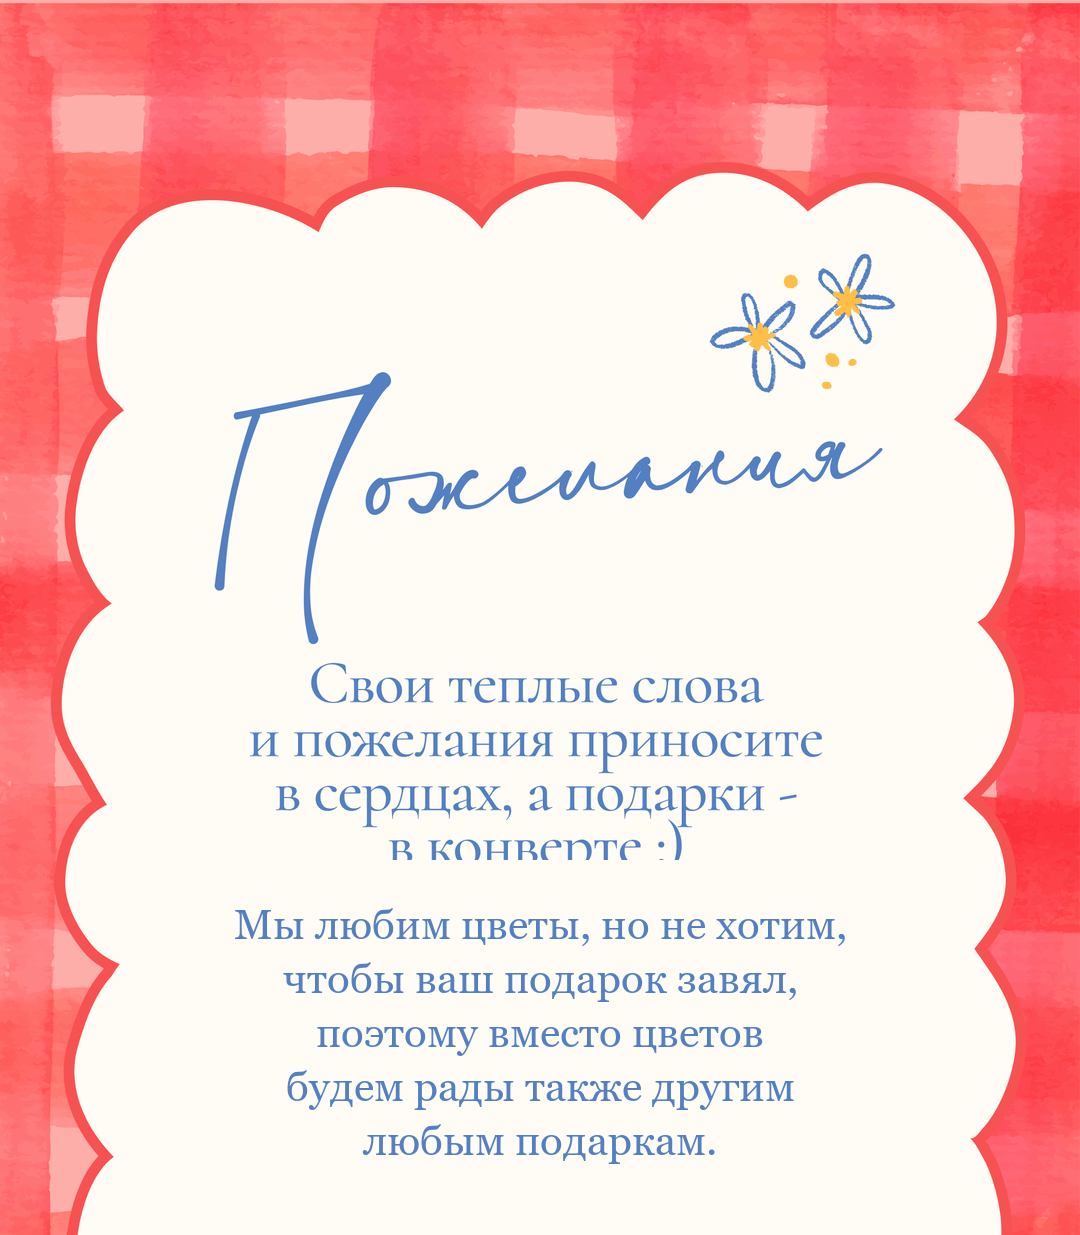
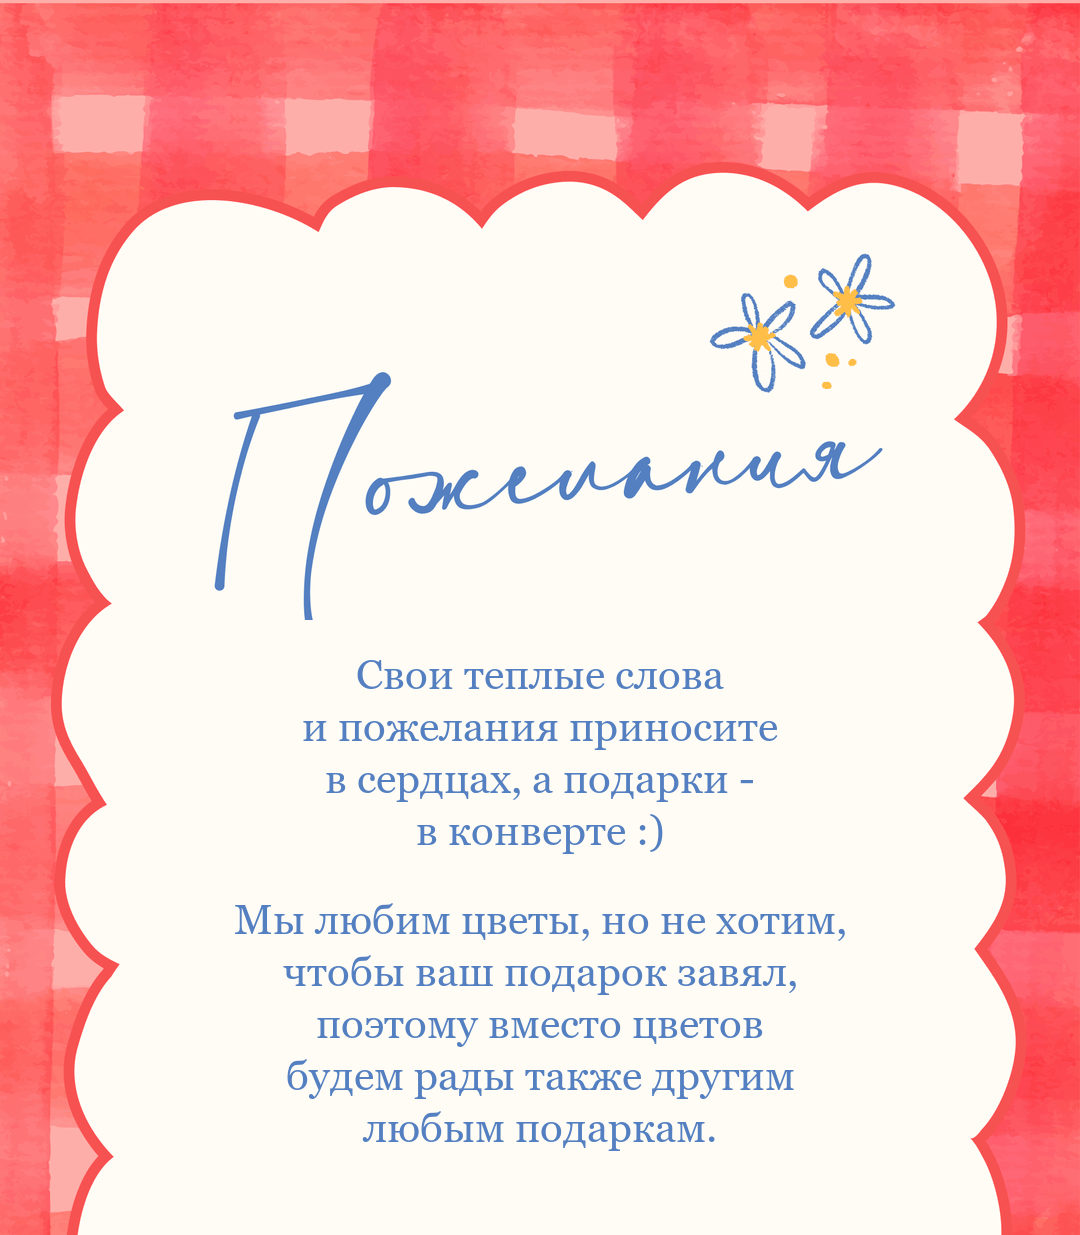
Add files via upload

Changed region(s): [[0.2139, 0.7385, 0.7944, 0.9538], [0.2139, 0.5231, 0.7639, 0.7077], [0.275, 0.4923, 0.3056, 0.5231]]

diff --git a/index.html b/index.html
@@ -19,7 +19,7 @@
 
 <source src="https://nadiamarina.ru/audio/sara.mp3" type="audio/mpeg">
 
-</audio><style type="text/css"> [name="audiostop01"] { position: absolute; width: 100%; } [name="audio01"] { opacity: 1; transition: opacity 0.6s cubic-bezier(.77,-0.01,.36,1); cursor: pointer; } [name="audio01"].playing { opacity: 0; } </style></div></div></div><div class="block-item block-banner has-pb-0 has-pt-0 b-80729590"><div><div class="has-marginless" section="[object Object]" block_id="80729590" account="[object Object]" theme="[object Object]" index="7" page_filename="european" device-class="lg"><div><div class="block-banner-inner"><div class="picture-container lazy is-loaded" style="padding-top: 162.963%; background: url(&quot;./loveee.ru_files/68774372-date-updated.png&quot;) 0px 0px / 100% no-repeat;"></div></div></div></div></div></div><div class="block-item block-banner has-pb-0 has-pt-0 b-80729592"><div><div class="has-marginless" section="[object Object]" block_id="80729592" account="[object Object]" theme="[object Object]" index="8" page_filename="european" device-class="lg"><div><div class="block-banner-inner"><div class="picture-container lazy is-loaded" style="padding-top: 124.792%; background: url(&quot;./loveee.ru_files/68774373-location-clean.png&quot;) 0px 0px / 100% no-repeat;"></div></div></div></div></div></div><div class="block-item block-banner has-pb-0 has-pt-0 b-80729585"><div><div class="has-marginless" section="[object Object]" block_id="80729585" account="[object Object]" theme="[object Object]" index="9" page_filename="european" device-class="lg"><div><div class="block-banner-inner"><div class="picture-container lazy is-loaded" style="padding-top: 20.8333%; background: url(&quot;./loveee.ru_files/68774374-map-blue.png&quot;) 0px 0px / 100% no-repeat;"></div></div></div></div></div></div><div class="block-item block-break b-be9807341447"><div><div class="block-break" section="[object Object]" block_id="be9807341447" block="[object Object]" account="[object Object]" theme="[object Object]" index="10" page_id="17481197" page_filename="european" device-class="lg" mode="view"><div class="block-break-inner has-icon is-invisible" style="height: 75px; margin: -7px 0px;"><span></span></div></div></div></div><div class="block-item block-banner has-pb-0 has-pt-0 b-80729584"><div><div class="has-marginless" section="[object Object]" block_id="80729584" account="[object Object]" theme="[object Object]" index="11" page_filename="european" device-class="lg"><div><div class="block-banner-inner"><div class="picture-container lazy is-loaded" style="padding-top: 168.148%; background: url(&quot;./loveee.ru_files/68774375-program-updated-v3.png&quot;) 0px 0px / 100% no-repeat;"></div></div></div></div></div></div><div class="block-item block-banner has-pb-0 has-pt-0 b-80729595"><div><div class="has-marginless" section="[object Object]" block_id="80729595" account="[object Object]" theme="[object Object]" index="12" page_filename="european" device-class="lg"><div><div class="block-banner-inner"><div data-src="./loveee.ru_files/68774348.png" class="picture-container lazy" style="padding-top: 88.5417%; background: 0px 0px / 100% no-repeat;"></div></div></div></div></div></div><div class="block-item block-banner has-pb-0 has-pt-0 b-80729599"><div><div class="has-marginless" section="[object Object]" block_id="80729599" account="[object Object]" theme="[object Object]" index="13" page_filename="european" device-class="lg"><div><div class="block-banner-inner"><div data-src="./loveee.ru_files/68774379-colors-updated.png" class="picture-container lazy" style="padding-top: 82.5%; background: 0px 0px / 100% no-repeat;"></div></div></div></div></div></div><div class="block-item block-banner has-pb-0 has-pt-0 b-80729601"><div><div class="has-marginless" section="[object Object]" block_id="80729601" account="[object Object]" theme="[object Object]" index="14" page_filename="european" device-class="lg"><div><div class="block-banner-inner"><div data-src="./loveee.ru_files/68774380-wishes-updated.png" class="picture-container lazy" style="padding-top: 114.352%; background: 0px 0px / 100% no-repeat;"></div></div></div></div></div></div><div class="block-item block-banner has-pb-0 has-pt-0 b-80729600"><div><div class="has-marginless" section="[object Object]" block_id="80729600" account="[object Object]" theme="[object Object]" index="15" page_filename="european" device-class="lg"><div><a rel="noopener" target="_blank" href="https://ohmywishes.com/"><div class="block-banner-inner"><div data-src="./loveee.ru_files/68774382.png" class="picture-container lazy" style="padding-top: 46.0185%; background: 0px 0px / 100% no-repeat;"></div></div></a></div></div></div></div><div class="block-item block-banner has-pb-0 has-pt-0 b-80729598"><div><div class="has-marginless" section="[object Object]" block_id="80729598" account="[object Object]" theme="[object Object]" index="16" page_filename="european" device-class="lg"><div><div class="block-banner-inner"><div data-src="./loveee.ru_files/68774385.png" class="picture-container lazy" style="padding-top: 88.75%; background: 0px 0px / 100% no-repeat;"></div></div></div></div></div></div><div class="block-item block-banner has-pb-0 has-pt-0 b-80729607"><div><div class="has-marginless" section="[object Object]" block_id="80729607" account="[object Object]" theme="[object Object]" index="17" page_filename="european" device-class="lg"><div><div class="block-banner-inner"><div data-src="./loveee.ru_files/68774392.png" class="picture-container lazy" style="padding-top: 20.463%; background: 0px 0px / 100% no-repeat;"></div></div></div></div></div></div><div class="block-item block-banner has-pb-0 has-pt-0 b-80729610"><div><div class="has-marginless" section="[object Object]" block_id="80729610" account="[object Object]" theme="[object Object]" index="18" page_filename="european" device-class="lg"><div><div class="block-banner-inner"><div data-src="./loveee.ru_files/68774394.png" class="picture-container lazy" style="padding-top: 123.958%; background: 0px 0px / 100% no-repeat;"></div></div></div></div></div></div><div class="block-item block-banner has-pb-0 has-pt-0 b-80729609"><div><div class="has-marginless" section="[object Object]" block_id="80729609" account="[object Object]" theme="[object Object]" index="19" page_filename="european" device-class="lg"><div><a rel="noopener" target="_blank" href="https://docs.google.com/forms/d/e/1FAIpQLScgUnUuUz_svglAJQ2AdZtG2Cd-jG3wC-IbTQ3QposS3vGNvw/viewform?usp=header"><div class="block-banner-inner"><div data-src="./loveee.ru_files/68774398.png" class="picture-container lazy" style="padding-top: 40.2083%; background: 0px 0px / 100% no-repeat;"></div></div></a></div></div></div></div><div class="block-item block-banner has-pb-0 has-pt-0 b-80729608"><div><div class="has-marginless" section="[object Object]" block_id="80729608" account="[object Object]" theme="[object Object]" index="20" page_filename="european" device-class="lg"><div><div class="block-banner-inner"><div data-src="./loveee.ru_files/68774405.png" class="picture-container lazy" style="padding-top: 93.75%; background: 0px 0px / 100% no-repeat;"></div></div></div></div></div></div><div class="block-item block-banner has-pb-0 has-pt-0 b-80729612"><div><div class="has-marginless" section="[object Object]" block_id="80729612" account="[object Object]" theme="[object Object]" index="21" page_filename="european" device-class="lg"><div><a rel="noopener" target="_top" href="https://t.me/nadia_likes_design"><div class="block-banner-inner"><div data-src="./loveee.ru_files/68774407.png" class="picture-container lazy" style="padding-top: 18.125%; background: 0px 0px / 100% no-repeat;"></div></div></a></div></div></div></div><div class="block-item block-banner has-pb-0 has-pt-0 b-80729613"><div><div class="has-marginless" section="[object Object]" block_id="80729613" account="[object Object]" theme="[object Object]" index="22" page_filename="european" device-class="lg"><div><div class="block-banner-inner"><div data-src="./loveee.ru_files/68774408.png" class="picture-container lazy" style="padding-top: 52.1296%; background: 0px 0px / 100% no-repeat;"></div></div></div></div></div></div><div class="block-item block-banner has-pb-0 has-pt-0 b-80729617"><div><div class="has-marginless" section="[object Object]" block_id="80729617" account="[object Object]" theme="[object Object]" index="23" page_filename="european" device-class="lg"><div><div class="block-banner-inner"><div data-src="./loveee.ru_files/68774410-final-updated.png" class="picture-container lazy" style="padding-top: 131.458%; background: 0px 0px / 100% no-repeat;"></div></div></div></div></div></div><div class="block-item block-break b-bf9f376d94ae"><div><div class="block-break" section="[object Object]" block_id="bf9f376d94ae" block="[object Object]" account="[object Object]" theme="[object Object]" index="24" page_id="17481197" page_filename="european" device-class="lg" mode="view"><div class="block-break-inner has-icon is-invisible" style="height: 90px; margin: -7px 0px;"><span></span></div></div></div></div> <!----></div></div> <!----></div></div></div></div></div></div> <!----></main></div></div> <!----></div> <div><!----></div>  <!----></div></div></div></div> </div>  <div style="position:absolute;top:-1000px;z-index: -1"><div id="autoResizeTextareaCopy" style="position:fixed;white-space:pre-wrap;box-sizing: border-box; -moz-box-sizing: border-box;  -ms-box-sizing: border-box; -webkit-box-sizing: border-box; visibility: hidden;"></div></div><img class="stat" src="./loveee.ru_files/44929738" cipq16rcl=""><script>
+</audio><style type="text/css"> [name="audiostop01"] { position: absolute; width: 100%; } [name="audio01"] { opacity: 1; transition: opacity 0.6s cubic-bezier(.77,-0.01,.36,1); cursor: pointer; } [name="audio01"].playing { opacity: 0; } </style></div></div></div><div class="block-item block-banner has-pb-0 has-pt-0 b-80729590"><div><div class="has-marginless" section="[object Object]" block_id="80729590" account="[object Object]" theme="[object Object]" index="7" page_filename="european" device-class="lg"><div><div class="block-banner-inner"><div class="picture-container lazy is-loaded" style="padding-top: 162.963%; background: url(&quot;./loveee.ru_files/68774372-date-updated.png&quot;) 0px 0px / 100% no-repeat;"></div></div></div></div></div></div><div class="block-item block-banner has-pb-0 has-pt-0 b-80729592"><div><div class="has-marginless" section="[object Object]" block_id="80729592" account="[object Object]" theme="[object Object]" index="8" page_filename="european" device-class="lg"><div><div class="block-banner-inner"><div class="picture-container lazy is-loaded" style="padding-top: 124.792%; background: url(&quot;./loveee.ru_files/68774373-location-clean.png&quot;) 0px 0px / 100% no-repeat;"></div></div></div></div></div></div><div class="block-item block-banner has-pb-0 has-pt-0 b-80729585"><div><div class="has-marginless" section="[object Object]" block_id="80729585" account="[object Object]" theme="[object Object]" index="9" page_filename="european" device-class="lg"><div><div class="block-banner-inner"><div class="picture-container lazy is-loaded" style="padding-top: 20.8333%; background: url(&quot;./loveee.ru_files/68774374-map-blue.png&quot;) 0px 0px / 100% no-repeat;"></div></div></div></div></div></div><div class="block-item block-break b-be9807341447"><div><div class="block-break" section="[object Object]" block_id="be9807341447" block="[object Object]" account="[object Object]" theme="[object Object]" index="10" page_id="17481197" page_filename="european" device-class="lg" mode="view"><div class="block-break-inner has-icon is-invisible" style="height: 75px; margin: -7px 0px;"><span></span></div></div></div></div><div class="block-item block-banner has-pb-0 has-pt-0 b-80729584"><div><div class="has-marginless" section="[object Object]" block_id="80729584" account="[object Object]" theme="[object Object]" index="11" page_filename="european" device-class="lg"><div><div class="block-banner-inner"><div class="picture-container lazy is-loaded" style="padding-top: 168.148%; background: url(&quot;./loveee.ru_files/68774375-program-updated-v3.png&quot;) 0px 0px / 100% no-repeat;"></div></div></div></div></div></div><div class="block-item block-banner has-pb-0 has-pt-0 b-80729595"><div><div class="has-marginless" section="[object Object]" block_id="80729595" account="[object Object]" theme="[object Object]" index="12" page_filename="european" device-class="lg"><div><div class="block-banner-inner"><div data-src="./loveee.ru_files/68774348.png" class="picture-container lazy" style="padding-top: 88.5417%; background: 0px 0px / 100% no-repeat;"></div></div></div></div></div></div><div class="block-item block-banner has-pb-0 has-pt-0 b-80729599"><div><div class="has-marginless" section="[object Object]" block_id="80729599" account="[object Object]" theme="[object Object]" index="13" page_filename="european" device-class="lg"><div><div class="block-banner-inner"><div data-src="./loveee.ru_files/68774379-colors-updated.png" class="picture-container lazy" style="padding-top: 82.5%; background: 0px 0px / 100% no-repeat;"></div></div></div></div></div></div><div class="block-item block-banner has-pb-0 has-pt-0 b-80729601"><div><div class="has-marginless" section="[object Object]" block_id="80729601" account="[object Object]" theme="[object Object]" index="14" page_filename="european" device-class="lg"><div><div class="block-banner-inner"><div data-src="./loveee.ru_files/68774380-wishes-updated.png" class="picture-container lazy" style="padding-top: 114.352%; background: 0px 0px / 100% no-repeat;"></div></div></div></div></div></div><div class="block-item block-banner has-pb-0 has-pt-0 b-80729600"><div><div class="has-marginless" section="[object Object]" block_id="80729600" account="[object Object]" theme="[object Object]" index="15" page_filename="european" device-class="lg"><div><a rel="noopener" target="_blank" href="https://ohmywishes.com/"><div class="block-banner-inner"><div data-src="./loveee.ru_files/68774382-wishlist-blank.png" class="picture-container lazy" style="padding-top: 46.0185%; background: 0px 0px / 100% no-repeat;"></div></div></a></div></div></div></div><div class="block-item block-banner has-pb-0 has-pt-0 b-80729598"><div><div class="has-marginless" section="[object Object]" block_id="80729598" account="[object Object]" theme="[object Object]" index="16" page_filename="european" device-class="lg"><div><div class="block-banner-inner"><div data-src="./loveee.ru_files/68774385-host-fedor.png" class="picture-container lazy" style="padding-top: 88.75%; background: 0px 0px / 100% no-repeat;"></div></div></div></div></div></div><div class="block-item block-banner has-pb-0 has-pt-0 b-80729607"><div><div class="has-marginless" section="[object Object]" block_id="80729607" account="[object Object]" theme="[object Object]" index="17" page_filename="european" device-class="lg"><div><div class="block-banner-inner"><div data-src="./loveee.ru_files/68774392.png" class="picture-container lazy" style="padding-top: 20.463%; background: 0px 0px / 100% no-repeat;"></div></div></div></div></div></div><div class="block-item block-banner has-pb-0 has-pt-0 b-80729610"><div><div class="has-marginless" section="[object Object]" block_id="80729610" account="[object Object]" theme="[object Object]" index="18" page_filename="european" device-class="lg"><div><div class="block-banner-inner"><div data-src="./loveee.ru_files/68774394.png" class="picture-container lazy" style="padding-top: 123.958%; background: 0px 0px / 100% no-repeat;"></div></div></div></div></div></div><div class="block-item block-banner has-pb-0 has-pt-0 b-80729609"><div><div class="has-marginless" section="[object Object]" block_id="80729609" account="[object Object]" theme="[object Object]" index="19" page_filename="european" device-class="lg"><div><a rel="noopener" target="_blank" href="https://docs.google.com/forms/d/e/1FAIpQLScgUnUuUz_svglAJQ2AdZtG2Cd-jG3wC-IbTQ3QposS3vGNvw/viewform?usp=header"><div class="block-banner-inner"><div data-src="./loveee.ru_files/68774398.png" class="picture-container lazy" style="padding-top: 40.2083%; background: 0px 0px / 100% no-repeat;"></div></div></a></div></div></div></div><div class="block-item block-banner has-pb-0 has-pt-0 b-80729608"><div><div class="has-marginless" section="[object Object]" block_id="80729608" account="[object Object]" theme="[object Object]" index="20" page_filename="european" device-class="lg"><div><div class="block-banner-inner"><div data-src="./loveee.ru_files/68774405.png" class="picture-container lazy" style="padding-top: 93.75%; background: 0px 0px / 100% no-repeat;"></div></div></div></div></div></div><div class="block-item block-banner has-pb-0 has-pt-0 b-80729612"><div><div class="has-marginless" section="[object Object]" block_id="80729612" account="[object Object]" theme="[object Object]" index="21" page_filename="european" device-class="lg"><div><a rel="noopener" target="_top" href="https://t.me/nadia_likes_design"><div class="block-banner-inner"><div data-src="./loveee.ru_files/68774407.png" class="picture-container lazy" style="padding-top: 18.125%; background: 0px 0px / 100% no-repeat;"></div></div></a></div></div></div></div><div class="block-item block-banner has-pb-0 has-pt-0 b-80729613"><div><div class="has-marginless" section="[object Object]" block_id="80729613" account="[object Object]" theme="[object Object]" index="22" page_filename="european" device-class="lg"><div><div class="block-banner-inner"><div data-src="./loveee.ru_files/68774408.png" class="picture-container lazy" style="padding-top: 52.1296%; background: 0px 0px / 100% no-repeat;"></div></div></div></div></div></div><div class="block-item block-banner has-pb-0 has-pt-0 b-80729617"><div><div class="has-marginless" section="[object Object]" block_id="80729617" account="[object Object]" theme="[object Object]" index="23" page_filename="european" device-class="lg"><div><div class="block-banner-inner"><div data-src="./loveee.ru_files/68774410-final-updated.png" class="picture-container lazy" style="padding-top: 131.458%; background: 0px 0px / 100% no-repeat;"></div></div></div></div></div></div><div class="block-item block-break b-bf9f376d94ae"><div><div class="block-break" section="[object Object]" block_id="bf9f376d94ae" block="[object Object]" account="[object Object]" theme="[object Object]" index="24" page_id="17481197" page_filename="european" device-class="lg" mode="view"><div class="block-break-inner has-icon is-invisible" style="height: 90px; margin: -7px 0px;"><span></span></div></div></div></div> <!----></div></div> <!----></div></div></div></div></div></div> <!----></main></div></div> <!----></div> <div><!----></div>  <!----></div></div></div></div> </div>  <div style="position:absolute;top:-1000px;z-index: -1"><div id="autoResizeTextareaCopy" style="position:fixed;white-space:pre-wrap;box-sizing: border-box; -moz-box-sizing: border-box;  -ms-box-sizing: border-box; -webkit-box-sizing: border-box; visibility: hidden;"></div></div><img class="stat" src="./loveee.ru_files/44929738" cipq16rcl=""><script>
 document.addEventListener("DOMContentLoaded", function () {
   var images = {
     "b-80729582": "./loveee.ru_files/68774418-maxim-valeria.png",
@@ -34,8 +34,8 @@ document.addEventListener("DOMContentLoaded", function () {
     "b-80729595": "./loveee.ru_files/68774348.png",
     "b-80729599": "./loveee.ru_files/68774379-colors-updated.png",
     "b-80729601": "./loveee.ru_files/68774380-wishes-updated.png",
-    "b-80729600": "./loveee.ru_files/68774382.png",
-    "b-80729598": "./loveee.ru_files/68774385.png",
+    "b-80729600": "./loveee.ru_files/68774382-wishlist-blank.png",
+    "b-80729598": "./loveee.ru_files/68774385-host-fedor.png",
     "b-80729607": "./loveee.ru_files/68774392.png",
     "b-80729610": "./loveee.ru_files/68774394.png",
     "b-80729609": "./loveee.ru_files/68774398.png",
@@ -46,7 +46,7 @@ document.addEventListener("DOMContentLoaded", function () {
   };
   var mapUrl = "https://yandex.com/profile/118944614793?lang=ru&no-distribution=1&view-state=mini&source=wizbiz_new_map_single";
   var audioStyle = document.createElement("style");
-  audioStyle.textContent = "[name='audiostop01']{position:absolute!important;width:100%!important;opacity:0!important;pointer-events:none!important;z-index:2;transition:opacity .6s cubic-bezier(.77,-0.01,.36,1)!important;cursor:pointer!important;}[name='audio01']{opacity:1!important;pointer-events:auto!important;transition:opacity .6s cubic-bezier(.77,-0.01,.36,1)!important;cursor:pointer!important;}body.audio-playing [name='audiostop01']{opacity:1!important;pointer-events:auto!important;}body.audio-playing [name='audio01']{opacity:0!important;pointer-events:none!important;}.b-80729600{display:none!important;}";
+  audioStyle.textContent = "[name='audiostop01']{position:absolute!important;width:100%!important;opacity:0!important;pointer-events:none!important;z-index:2;transition:opacity .6s cubic-bezier(.77,-0.01,.36,1)!important;cursor:pointer!important;}[name='audio01']{opacity:1!important;pointer-events:auto!important;transition:opacity .6s cubic-bezier(.77,-0.01,.36,1)!important;cursor:pointer!important;}body.audio-playing [name='audiostop01']{opacity:1!important;pointer-events:auto!important;}body.audio-playing [name='audio01']{opacity:0!important;pointer-events:none!important;}";
   document.head.appendChild(audioStyle);
   function apply() {
     Object.keys(images).forEach(function (blockClass) {
@@ -87,10 +87,7 @@ document.addEventListener("DOMContentLoaded", function () {
       mapBlock.setAttribute("title", "Открыть карту");
       mapBlock.onclick = function () { window.open(mapUrl, "_blank", "noopener"); };
     }
-    var wishBlock = document.querySelector(".b-80729600");
-    if (wishBlock) {
-      wishBlock.remove();
-    }
+
     var tail = document.querySelector(".b-80729622");
     while (tail) {
       var next = tail.nextElementSibling;